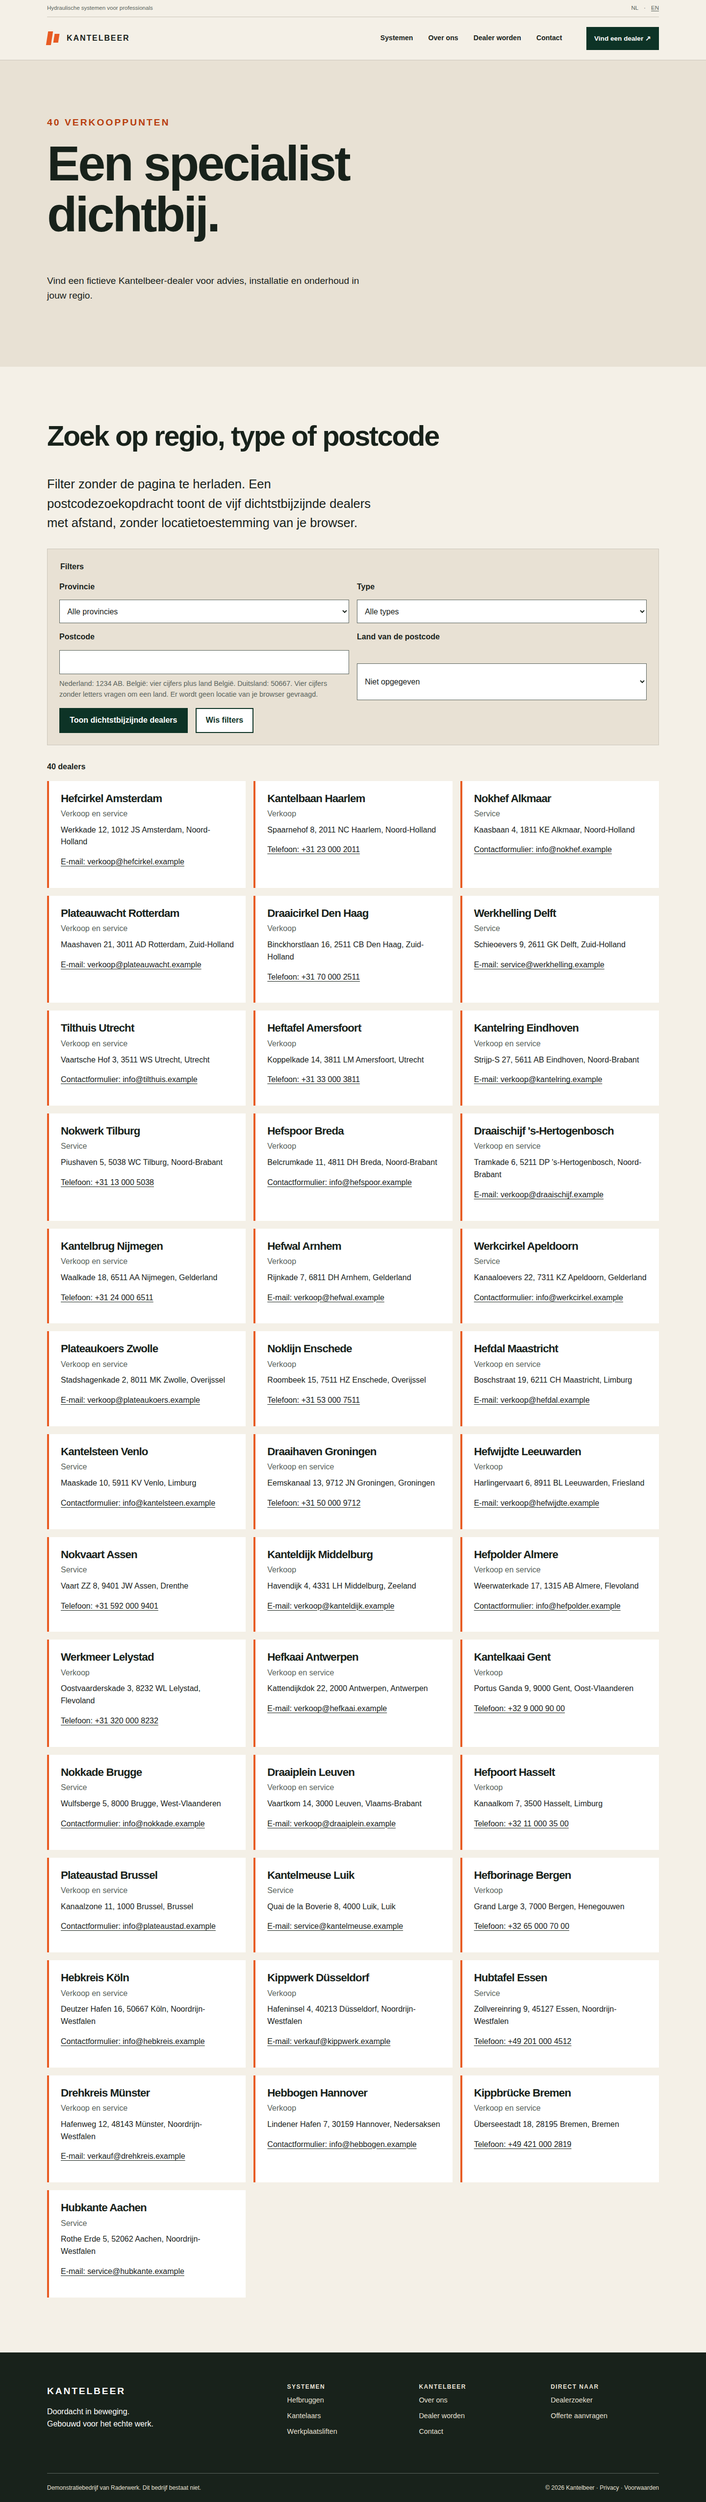
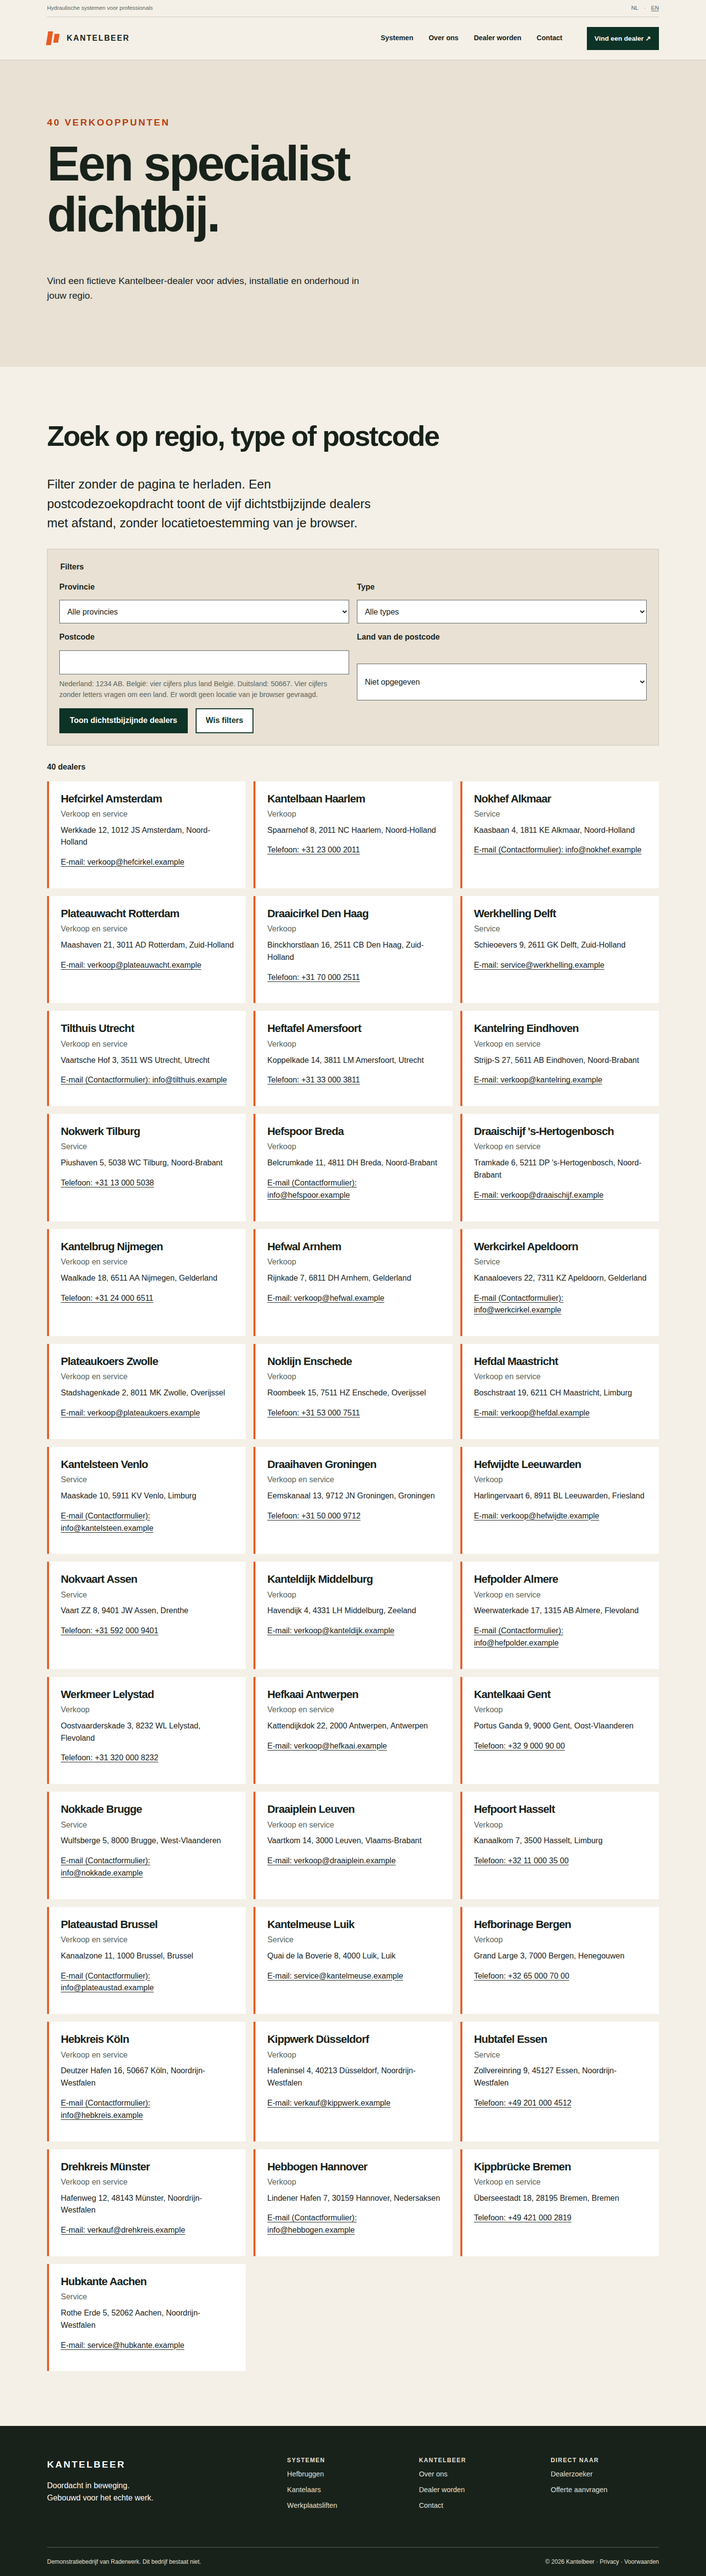
Refresh dealer-catalogue screenshots after the review fixes
Capture empty-state and nearest-five views at 1440px, and refresh the 360/768/1440 catalogue shots so contact labels and result counts match the restored copy.

diff --git a/evidence/WV-184.md b/evidence/WV-184.md
@@ -5,8 +5,10 @@
 - [360 px](dealerzoeker-360.png)
 - [768 px](dealerzoeker-768.png)
 - [1440 px](dealerzoeker-1440.png)
+- [1440 px, lege staat Zeeland + service](dealerzoeker-1440-empty.png)
+- [1440 px, vijf dichtstbijzijnde bij 1012 JS](dealerzoeker-1440-nearest.png)
 
-De afbeeldingen zijn full-page screenshots van de gebouwde `/dealerzoeker/`-pagina, gemaakt met Chromium op een viewporthoogte van 900 px.
+De afbeeldingen zijn full-page screenshots van de gebouwde `/dealerzoeker/`-pagina, gemaakt met Chromium op een viewporthoogte van 900 px. De extra 1440-px-shots tonen de lege staat met alternatieven en de postcodezoekopdracht.
 
 ## Toetsenbordpad
 
